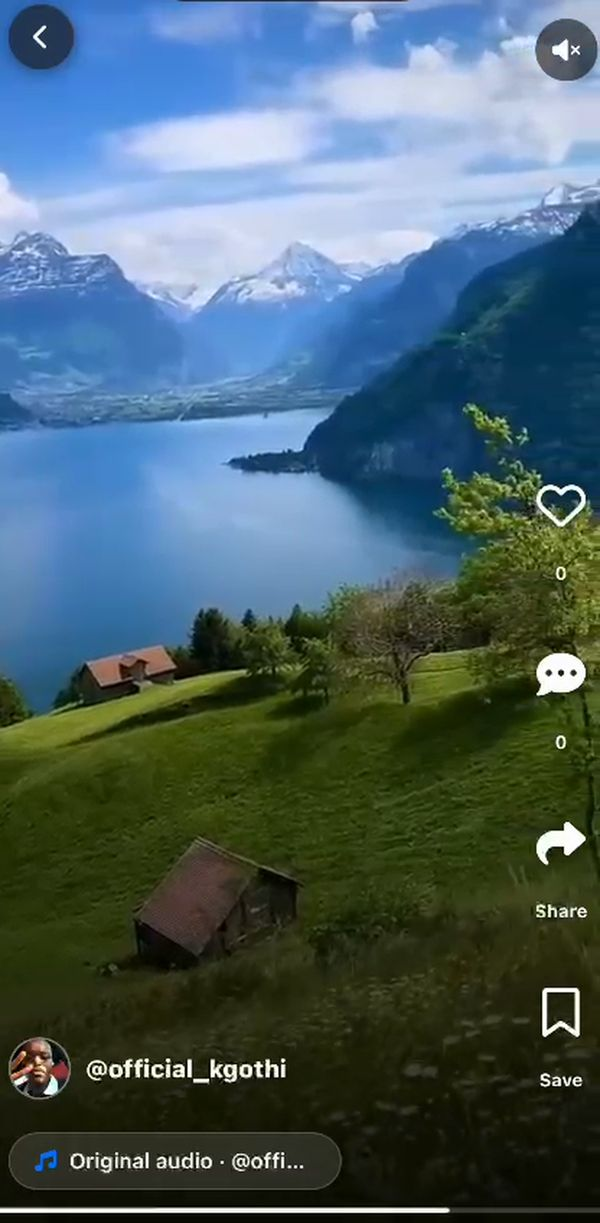
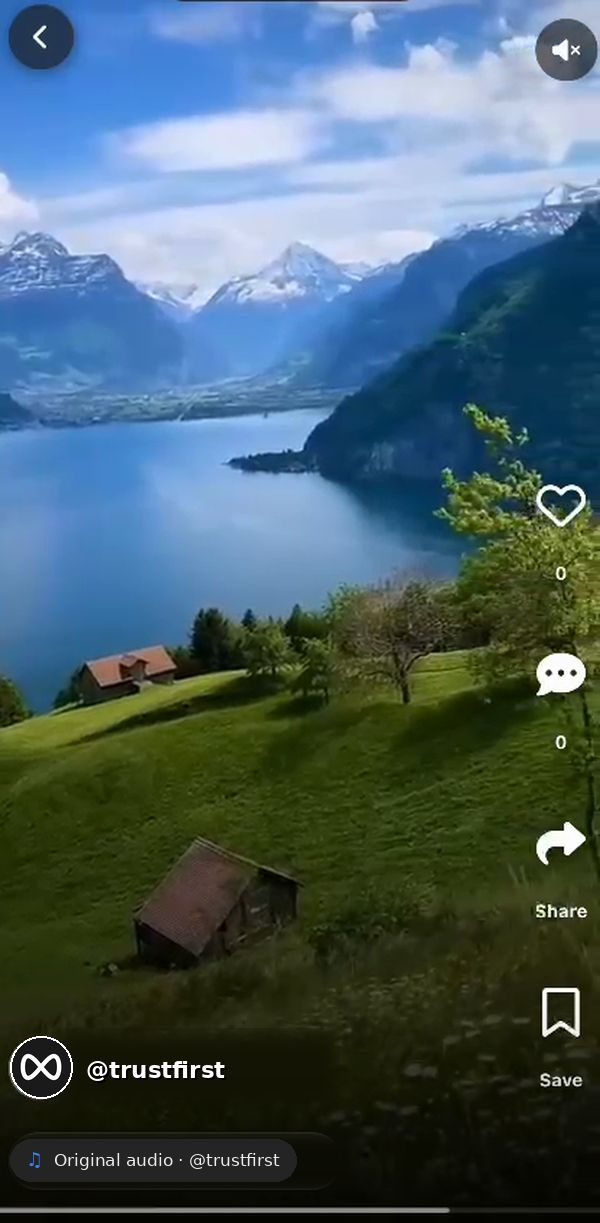
Both phones show the TrustFirst account, and the clip loads with the page
Three things, all visible on the page.

The clip screenshot carried a personal account: the avatar, the handle under the
video and the audio credit all read @official_kgothi. The interface is unchanged,
only whose post it is: the mark is the app's own icon, the handle and the credit
read @trustfirst. A clip posted from that account looks exactly like this, which
is the point of relabelling rather than inventing.

Doing it took three attempts worth recording. Lifting clean video from elsewhere
in the frame left a visible rectangle. Blurring the old text left a pale ghost of
the letters at every radius, because blurring white on dark spreads it rather
than removing it. What works is replacing the strip with the median of the dark
pixels already in it, feathered at the edges, so the patch is the colour of the
grass it sits in and has no seam to find.

The conversation above it said "Someone you follow" beside an empty grey circle,
which is what a placeholder looks like on a page arguing it is not a mockup. It
is the TrustFirst account now, with the icon and the verified tick the app draws.

The avatar came out the size of the whole phone at first. .phone img sets
width:100% for the screenshot, and an element selector plus a class outranks the
bare .avatar class, so the 38px avatar was stretched to fill its frame. That rule
is scoped to .phone-shot now, where it was always meant to apply.

And the clip was loading late. It was marked lazy, which is right for something
[…]

Changed region(s): [[0.0, 0.8389, 0.75, 0.9943]]

diff --git a/landing/index.html b/landing/index.html
@@ -7,6 +7,9 @@
 <meta name="description" content="A social app that knows who is real. Accounts can be verified against a real identity, messages are encrypted, and creators keep 80% of every gift. Free on Android and iPhone.">
 <meta name="theme-color" content="#000000">
 <link rel="icon" href="icon.svg" type="image/svg+xml">
+<!-- Asked for while the HTML is still parsing, so the screenshot is
+     already there by the time somebody scrolls to it. -->
+<link rel="preload" as="image" href="shot-clips.webp" type="image/webp">
 
 <!-- Open Graph, so a link pasted into WhatsApp shows a card instead of a bare URL -->
 <meta property="og:site_name" content="TrustFirst">
@@ -207,7 +210,8 @@ section:first-of-type{border-top:none;}
 .phone-body{padding:0 0 18px;}
 .phone-shot{max-width:280px;}
 .phone-shot img{display:block;width:100%;height:auto;}
-.phone img{display:block;width:100%;height:auto;}
+/* Scoped to the screenshot: a bare .phone img also caught the avatar in the
+   conversation above and outranked .avatar, blowing it up to full width. */
 
 /* the Eddie exchange, rendered rather than screenshotted --------------------
    This is a real question somebody asked and a real answer Eddie gave, marked
@@ -217,6 +221,7 @@ section:first-of-type{border-top:none;}
 .post{padding:16px 15px 6px;}
 .post-top{display:flex;align-items:center;gap:10px;margin-bottom:10px;}
 .avatar{width:38px;height:38px;border-radius:50%;flex:none;object-fit:cover;background:#2c2c2e;}
+img.avatar{background:#000;}
 .avatar.eddie{
   background:#0a0a0a;border:1px solid rgba(255,255,255,0.14);
   display:flex;align-items:center;justify-content:center;
@@ -327,10 +332,10 @@ section:first-of-type{border-top:none;}
         <div class="phone-body">
           <article class="post">
             <div class="post-top">
-              <div class="avatar" aria-hidden="true"></div>
+              <img class="avatar" src="icon.svg" alt="" width="38" height="38">
               <div class="who">
-                <b>Someone you follow</b>
-                <span>in the feed</span>
+                <b>TrustFirst<svg class="tick" viewBox="0 0 24 24" aria-label="Verified"><circle cx="12" cy="12" r="11" fill="#1d9bf0"/><path d="M17 8.5l-6.3 6.5L7 11.4" fill="none" stroke="#fff" stroke-width="2.4" stroke-linecap="round" stroke-linejoin="round"/></svg></b>
+                <span>@trustfirst</span>
               </div>
             </div>
             <p>Hey <b style="color:var(--blue);">@eddie</b> which one would you choose
@@ -407,7 +412,7 @@ section:first-of-type{border-top:none;}
         <div class="phone-notch"><i></i></div>
         <picture>
           <source srcset="shot-clips.webp" type="image/webp">
-          <img src="shot-clips.jpg" width="600" height="1223" loading="lazy" decoding="async"
+          <img src="shot-clips.jpg" width="600" height="1223" fetchpriority="high" decoding="async"
                alt="A TrustClip playing, with the like, comment, share and save controls down the right side">
         </picture>
       </div>
